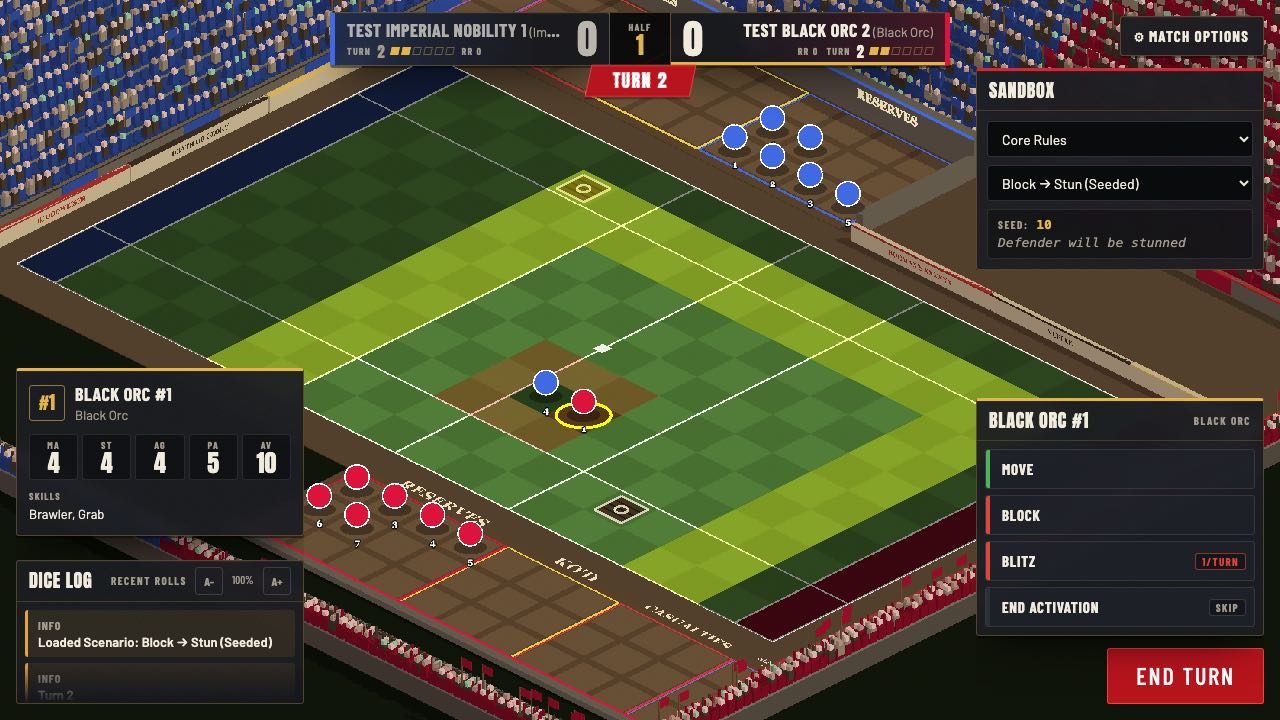
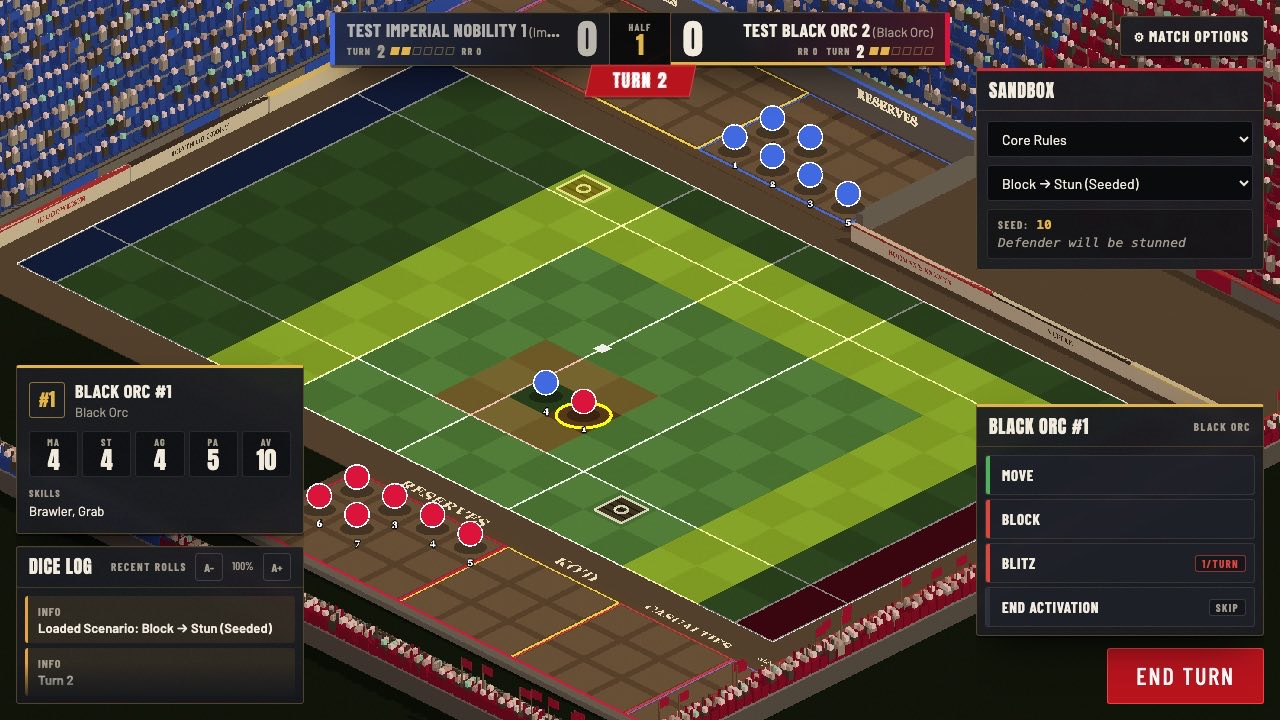
Give each side of the HUD one full-height column
The four corners each had half the window. Two player cards above the dice
log overflowed the bottom-left half and grew a scrollbar, and the setup
panel's own 60vh cap clipped its last rows inside the half it was given.

Each side is now one column: the top stack keeps at most half and the
bottom stack takes the rest, so a short top corner leaves its room to the
panels below. The setup panel drops its cap, and the player cards space
themselves with the stack's gap.

diff --git a/src/ui/components/hud/HUDLayout.tsx b/src/ui/components/hud/HUDLayout.tsx
@@ -9,13 +9,17 @@ interface HUDLayoutProps {
   overlays?: React.ReactNode;
 }
 
-// Each corner gets at most half the window, scrolling past that, so a tall
-// panel (the sandbox case explorer, a long action menu) never runs under the
-// stack in the corner below or above it. The bottom corners push their stack
-// down with an auto top margin rather than justify-end: justify-end in a
-// scrolling column clips the top of an overflowing stack out of reach.
-const corner =
-  "absolute flex max-h-[calc(50vh-1.5rem)] w-72 max-w-[40vw] flex-col gap-3 overflow-y-auto";
+// Each side is one full-height column: the top stack sits at the top and the
+// bottom stack is pushed down with an auto margin, so the two can share the
+// height without ever running into each other. The top stack keeps at most
+// half (the sandbox case explorer scrolls inside that), and a panel that must
+// give way (a long action menu) shrinks and scrolls inside itself; the column
+// only scrolls as a last resort. An auto margin rather than justify-end, because
+// justify-end in a scrolling column clips the top of an overflowing stack.
+const column =
+  "absolute top-4 bottom-4 flex w-72 max-w-[40vw] flex-col gap-3 overflow-y-auto no-scrollbar";
+const stack = "flex min-h-0 flex-col gap-3";
+const top = `${stack} max-h-[calc(50%-0.375rem)] shrink-0 overflow-y-auto hud-scroll`;
 
 /**
  * HUDLayout: floating panels in the four corners over a full-window match.
@@ -33,15 +37,13 @@ export const HUDLayout: React.FC<HUDLayoutProps> = ({
   overlays,
 }) => (
   <div className="absolute inset-0 pointer-events-none">
-    <div className={`${corner} left-4 top-4`}>{topLeft}</div>
-    <div className={`${corner} right-4 top-4 items-end`}>{topRight}</div>
-    <div className={`${corner} bottom-4 left-4 [&>*:first-child]:mt-auto`}>
-      {bottomLeft}
+    <div className={`${column} left-4`}>
+      <div className={top}>{topLeft}</div>
+      <div className={`${stack} mt-auto`}>{bottomLeft}</div>
     </div>
-    <div
-      className={`${corner} bottom-4 right-4 items-end [&>*:first-child]:mt-auto`}
-    >
-      {bottomRight}
+    <div className={`${column} right-4 items-end`}>
+      <div className={`${top} w-full items-end`}>{topRight}</div>
+      <div className={`${stack} mt-auto w-full items-end`}>{bottomRight}</div>
     </div>
     {overlays}
   </div>

diff --git a/src/ui/components/hud/PlayerInfoPanel.tsx b/src/ui/components/hud/PlayerInfoPanel.tsx
@@ -100,7 +100,7 @@ export const PlayerInfoPanel: React.FC<PlayerInfoPanelProps> = ({
       <Panel
         key={player.id}
         accent={isComparison ? "info" : "gold"}
-        className="mb-3 w-full pointer-events-none animate-hud-in px-3 pb-3 pt-3"
+        className="w-full pointer-events-none animate-hud-in px-3 pb-3 pt-3"
       >
         {/* Header */}
         <div className="flex items-start gap-2.5">
@@ -200,7 +200,7 @@ export const PlayerInfoPanel: React.FC<PlayerInfoPanelProps> = ({
     <Panel
       key="sideline-crew"
       accent="gold"
-      className="mb-3 w-full pointer-events-none animate-hud-in px-3 pb-3 pt-3"
+      className="w-full pointer-events-none animate-hud-in px-3 pb-3 pt-3"
     >
       <div className="font-hud-label text-hud-lg font-bold uppercase leading-tight tracking-[0.03em] text-hud-gold">
         {crew.name}
@@ -217,7 +217,7 @@ export const PlayerInfoPanel: React.FC<PlayerInfoPanelProps> = ({
   );
 
   return (
-    <div className="w-full flex flex-col items-end">
+    <div className="flex w-full flex-col items-end gap-3 empty:hidden">
       {selectedPlayer && renderPanel(selectedPlayer, false)}
       {hoveredPlayer &&
         hoveredPlayer.id !== selectedPlayer?.id &&

diff --git a/__tests__/unit/PlayerInfoPanel.test.tsx b/__tests__/unit/PlayerInfoPanel.test.tsx
@@ -78,9 +78,7 @@ describe("PlayerInfoPanel: sideline crew subject", () => {
     await act(async () => {
       eventBus.emit(GameEventNames.UI_HidePlayerInfo);
     });
-    expect(container.innerHTML.trim()).toBe(
-      "<div class=\"w-full flex flex-col items-end\"></div>"
-    );
+    expect(container.textContent).toBe("");
   });
 
   it("does not disturb a selected player when a crew subject is hovered", async () => {

diff --git a/src/ui/components/hud/SetupControls.tsx b/src/ui/components/hud/SetupControls.tsx
@@ -136,7 +136,7 @@ export const SetupControls: React.FC<SetupControlsProps> = ({ eventBus }) => {
   return (
     <Panel
       accent="gold"
-      className="w-full max-h-[60vh] flex flex-col pointer-events-auto animate-hud-in z-50"
+      className="w-full shrink-0 flex flex-col pointer-events-auto animate-hud-in z-50"
     >
       <PanelHeader
         title={activeTeam?.name || "Unknown Team"}

diff --git a/src/ui/components/hud/GameHUD.tsx b/src/ui/components/hud/GameHUD.tsx
@@ -303,7 +303,7 @@ export const GameHUD: React.FC<GameHUDProps> = ({
       bottomLeft={
         <>
           <PlayerInfoPanel eventBus={eventBus} />
-          <div className="h-[22vh] max-h-[220px] min-h-[120px] w-full">
+          <div className="h-[22vh] max-h-[220px] min-h-[120px] w-full shrink-0">
             <DiceLog eventBus={eventBus} />
           </div>
         </>
